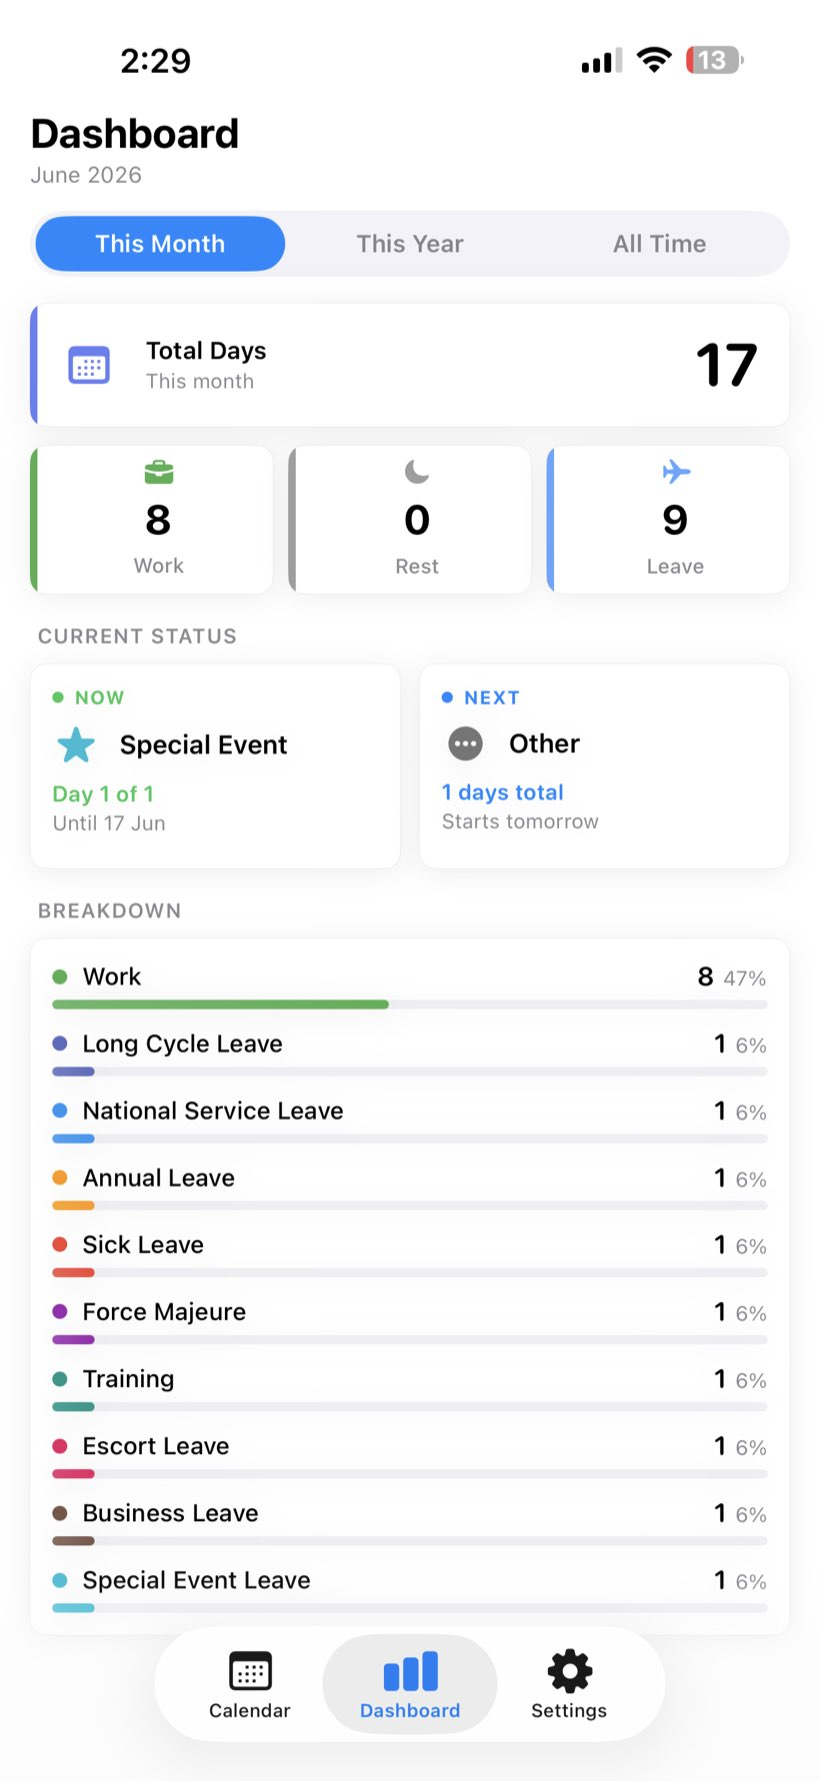
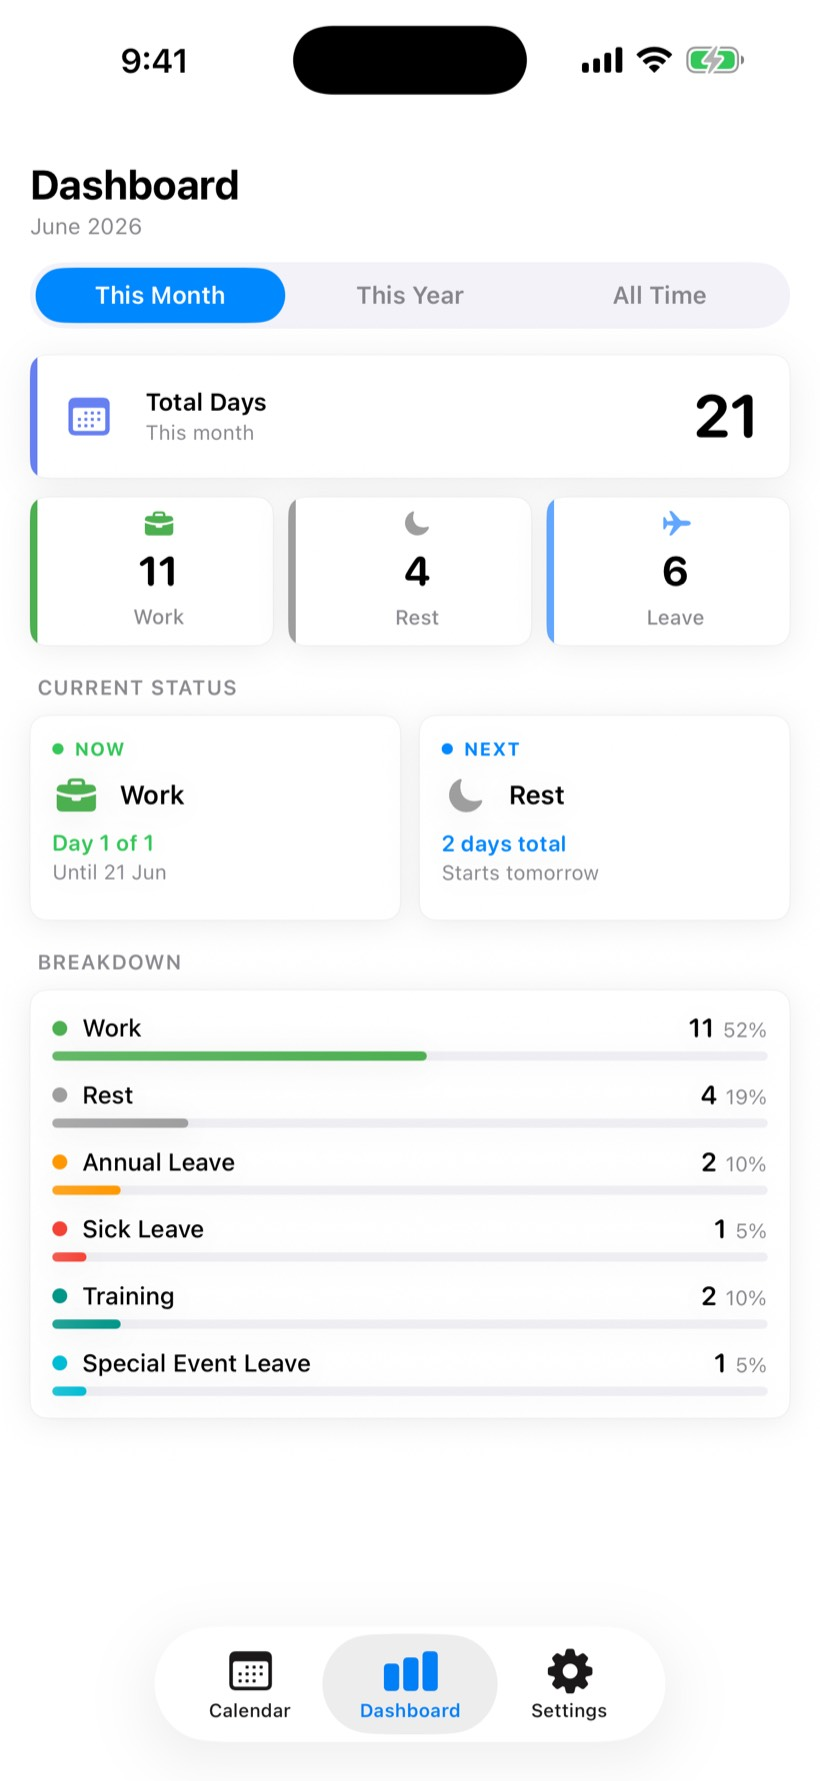
SShift: app-faithful re-skin + new simulator screenshots
Reproduce the SShift app's real design language on /sshift/ (page-local
inline style only). Calendar/week tiles use the true day-cell recipe —
per-type --c, linear-gradient(--c@18%→@user%) over the surface, solid ~4px
top strip, 1px ~18% border, radius 11, number+code. Week strip shows the
real type colours (Work green, today blue, Training teal, Annual amber,
Sick red, Long Cycle indigo, Rest grey). Legend = the app's edit-day type
chips (type@12% fill + type border + dot + code, bilingual). Lead accent
indigo #6680F2; edge-strip motif on feature cards; solid cards (no blur).
New clean simulator screenshots: hero theme-swaps calendar light/dark;
gallery = dashboard, day-detail, Arabic calendar, settings + a dark
dashboard. Removed unused v1 shots.

Fixes the grey-cells bug: .sh-week .tile/.sh-legend li (0,2,0) had hard-set
--c, beating the .sh-c-* type classes (0,1,0); now uses var(--c, fallback).

Other apps, assets/saud.css, version/What's-New/data-releases/loader/
app-data.js untouched. _v2src not committed.

diff --git a/sshift/index.html b/sshift/index.html
@@ -50,27 +50,25 @@
      surfaces via color-mix so they hold contrast in both light and dark.
      The grid/week mocks are decorative (aria-hidden); the legend carries
      the real bilingual labels. */
-  /* Accent drawn from the app's multi-colour leave-type palette: a confident
-     indigo-violet lead, lightened in dark mode. Page-local override only. */
-  body.app-sshift { --accent: #5B57E0; --accent-2: #3F39B8; }
-  :root[data-theme="dark"] body.app-sshift { --accent: #8B88F2; --accent-2: #6C66E8; }
-  @media (prefers-color-scheme: dark) { :root:not([data-theme="light"]) body.app-sshift { --accent: #8B88F2; --accent-2: #6C66E8; } }
+  /* SShift's lead accent = indigo #6680F2 (the app's brand indigo), lifted
+     slightly in dark for contrast. Page-local override only. */
+  body.app-sshift { --accent: #6680F2; --accent-2: #4860D8; }
+  :root[data-theme="dark"] body.app-sshift { --accent: #8AA0F7; --accent-2: #6680F2; }
+  @media (prefers-color-scheme: dark) { :root:not([data-theme="light"]) body.app-sshift { --accent: #8AA0F7; --accent-2: #6680F2; } }
 
-  /* Leave-type colours — EXACT hex from the app's DayType.colorHex (mode-
-     independent: identical in light & dark, matching the app 1:1). */
+  /* Leave-type colours — EXACT DayType.colorHex (one hex per type; the
+     gradient/opacity recipe below adapts them to light & dark, like the app). */
   .app-sshift {
-    --sh-work: #4CAF50;     /* Work */
-    --sh-rest: #9E9E9E;     /* Rest Day */
-    --sh-training: #009688; /* Training */
-    --sh-annual: #FF9800;   /* Annual Leave */
-    --sh-leave: #5C6BC0;    /* Long Cycle Leave (LCL) */
-    --sh-sick: #F44336;     /* Sick Leave */
+    --sh-work:#4CAF50; --sh-rest:#9E9E9E; --sh-lcl:#5C6BC0; --sh-nsl:#2196F3;
+    --sh-annual:#FF9800; --sh-sick:#F44336; --sh-force:#9C27B0; --sh-training:#009688;
+    --sh-escort:#E91E63; --sh-business:#795548; --sh-special:#00BCD4; --sh-other:#757575;
+    --sh-leave:#5C6BC0; /* alias: Long Cycle */
   }
-  .sh-cell-work     { background: color-mix(in oklab, var(--sh-work) 34%, var(--surface)); }
-  .sh-cell-rest     { background: color-mix(in oklab, var(--sh-rest) 24%, var(--surface)); }
-  .sh-cell-training { background: color-mix(in oklab, var(--sh-training) 34%, var(--surface)); }
-  .sh-cell-leave    { background: color-mix(in oklab, var(--sh-leave) 34%, var(--surface)); }
-  .sh-cell-annual   { background: color-mix(in oklab, var(--sh-annual) 36%, var(--surface)); }
+  /* Each coloured element sets --c to its type; the recipe reads --c. */
+  .sh-c-work{--c:var(--sh-work);} .sh-c-rest{--c:var(--sh-rest);} .sh-c-training{--c:var(--sh-training);}
+  .sh-c-annual{--c:var(--sh-annual);} .sh-c-lcl{--c:var(--sh-lcl);} .sh-c-sick{--c:var(--sh-sick);}
+  .sh-c-nsl{--c:var(--sh-nsl);} .sh-c-force{--c:var(--sh-force);} .sh-c-escort{--c:var(--sh-escort);}
+  .sh-c-business{--c:var(--sh-business);} .sh-c-special{--c:var(--sh-special);} .sh-c-other{--c:var(--sh-other);}
 
   /* Month-calendar mock (hero device screen) */
   .sh-cal { display: flex; flex-direction: column; gap: 9px; height: 100%; padding: 18px 15px; }
@@ -89,28 +87,66 @@
              background: var(--surface-2); border: 1px solid var(--hairline);
              border-radius: var(--r-pill); padding: 7px 12px; }
 
-  /* Week rhythm strip (section artifact) */
-  .sh-week { display: grid; grid-template-columns: repeat(7,1fr); gap: 7px; padding: 18px;
+  /* ── Week strip = a real calendar week, using the app's day-cell recipe ──
+     fill = BASE@18%→BASE@10% vertical gradient over the surface (so it adapts
+     to light & dark like the app); 1px BASE-tinted border; a solid BASE top
+     accent strip (~4px, full width); radius 11; day number weight 600 +
+     short code @55%; very soft shadow. */
+  .sh-week { display: grid; grid-template-columns: repeat(7,1fr); gap: 6px; padding: 16px;
              background: var(--surface); border: 1px solid var(--hairline);
-             border-radius: var(--r-lg); box-shadow: var(--shadow-sm); }
-  .sh-week .col { display: flex; flex-direction: column; align-items: center; gap: 8px; }
-  .sh-week .dow { font-size: 11px; font-weight: 700; color: var(--text-3); }
-  .sh-week .tile { width: 100%; aspect-ratio: 2/3; border-radius: 10px; background: var(--surface-2); }
-  /* tiles carry no text, so they take the FULL exact shift colour (1:1 with app) */
-  .sh-week .tile.sh-cell-work     { background: var(--sh-work); }
-  .sh-week .tile.sh-cell-rest     { background: var(--sh-rest); }
-  .sh-week .tile.sh-cell-training { background: var(--sh-training); }
-  .sh-week .tile.sh-cell-leave    { background: var(--sh-leave); }
-  .sh-week .tile.sh-cell-annual   { background: var(--sh-annual); }
-  .sh-week .tile.sh-cell-sick     { background: var(--sh-sick); }
+             border-radius: 16px; box-shadow: var(--shadow-sm); }
+  .sh-week .col { display: flex; flex-direction: column; align-items: stretch; gap: 7px; }
+  .sh-week .dow { text-align: center; font-size: 10.5px; font-weight: 700; color: var(--text-3); }
+  .sh-week .tile { position: relative; aspect-ratio: 1/1.18; overflow: hidden;
+                   border-radius: 11px; padding: 7px 7px 6px;
+                   display: flex; flex-direction: column; align-items: flex-start; gap: 3px;
+                   background: linear-gradient(180deg,
+                     color-mix(in srgb, var(--c, var(--sh-rest)) 18%, var(--surface)),
+                     color-mix(in srgb, var(--c, var(--sh-rest)) 10%, var(--surface)));
+                   border: 1px solid color-mix(in srgb, var(--c, var(--sh-rest)) 18%, transparent);
+                   box-shadow: 0 1px 2px rgba(0,0,0,0.04); }
+  .sh-week .tile::before { content: ""; position: absolute; inset: 0 0 auto 0; height: 4px; background: var(--c, var(--sh-rest)); }
+  .sh-week .tile .sh-num { font-size: 13.5px; font-weight: 600; line-height: 1; color: var(--text);
+                           font-variant-numeric: tabular-nums; margin-top: 3px; }
+  .sh-week .tile .sh-code { font-size: 9.5px; font-weight: 500; line-height: 1;
+                            color: color-mix(in srgb, var(--text) 55%, transparent); letter-spacing: .02em; }
+  /* Today = always the app's blue cell (overrides type colour), white text */
+  .sh-week .tile.today { background: linear-gradient(180deg, #ADD1FF, #61A6FF);
+                         border-color: color-mix(in srgb, #3373D9 45%, transparent);
+                         box-shadow: 0 1px 5px rgba(51,115,217,0.18); }
+  .sh-week .tile.today::before { background: #3373D9; }
+  .sh-week .tile.today .sh-num { color: #fff; }
+  .sh-week .tile.today .sh-code { color: rgba(255,255,255,0.82); }
 
-  /* Shift-type legend (real bilingual content) */
-  .sh-legend { list-style: none; margin: 20px 0 0; padding: 0; display: flex; flex-wrap: wrap; gap: 9px 16px; }
-  .sh-legend li { display: inline-flex; align-items: center; gap: 8px; font-size: 14px; color: var(--text-2); }
-  .sh-legend .sw { width: 13px; height: 13px; border-radius: 4px; flex: 0 0 auto; }
-  .sw-work{ background: var(--sh-work); } .sw-rest{ background: var(--sh-rest); }
-  .sw-training{ background: var(--sh-training); } .sw-leave{ background: var(--sh-leave); }
-  .sw-annual{ background: var(--sh-annual); } .sw-sick{ background: var(--sh-sick); }
+  /* ── Shift-type legend = the app's type chips (dot + code + name; each tinted
+     in its own colour: type@12% fill + type border, radius 9). ── */
+  .sh-legend { list-style: none; margin: 22px 0 0; padding: 0; display: flex; flex-wrap: wrap; gap: 9px; }
+  .sh-legend li { display: inline-flex; align-items: center; gap: 8px;
+                  font-size: 13px; font-weight: 560; color: var(--text);
+                  background: color-mix(in srgb, var(--c, var(--sh-rest)) 12%, var(--surface));
+                  border: 1px solid color-mix(in srgb, var(--c, var(--sh-rest)) 48%, var(--hairline));
+                  border-radius: 9px; padding: 6px 11px; }
+  .sh-legend li .dot { width: 7px; height: 7px; border-radius: 50%; background: var(--c, var(--sh-rest)); flex: 0 0 auto; }
+  .sh-legend li .code { font-size: 11px; font-weight: 700; letter-spacing: .02em;
+                        color: color-mix(in srgb, var(--c, var(--sh-rest)) 65%, var(--text)); }
+
+  /* ── Edge-strip motif — a ~4px rounded-leading vertical strip on the left of
+     each feature card, in its type/accent colour (like the app's Today/stat
+     cards). Cards stay SOLID (no blur) with a thin hairline + soft shadow. ── */
+  body.app-sshift .feature { position: relative; overflow: hidden; }
+  body.app-sshift .feature::before { content: ""; position: absolute; inset-block: 0;
+                                     inset-inline-start: 0; width: 4px; background: var(--c, var(--accent)); }
+  /* icon chip picks up the card's type colour (matches the edge strip) */
+  body.app-sshift .feature .f-ic { background: color-mix(in srgb, var(--c, var(--accent)) 16%, var(--surface));
+                                   color: var(--c, var(--accent)); }
+
+  /* Hero screenshot swaps with the page theme (light/dark calendar capture) */
+  body.app-sshift .sh-hero-shot { width: 100%; height: 100%; object-fit: cover; display: block; }
+  body.app-sshift .sh-hero-dark { display: none; }
+  :root[data-theme="dark"] body.app-sshift .sh-hero-light { display: none; }
+  :root[data-theme="dark"] body.app-sshift .sh-hero-dark { display: block; }
+  @media (prefers-color-scheme: dark) { :root:not([data-theme="light"]) body.app-sshift .sh-hero-light { display: none; }
+    :root:not([data-theme="light"]) body.app-sshift .sh-hero-dark { display: block; } }
 
   /* "A look inside" — real screenshots in device frames (mirrors Filed) */
   .sh-shots { display: flex; flex-wrap: wrap; justify-content: center; align-items: flex-start;
@@ -206,7 +242,8 @@
           <div class="device">
             <span class="island" aria-hidden="true"></span>
             <div class="screen">
-              <img src="/sshift/assets/screenshots/calendar.jpg" alt="The SShift month calendar for June — each day colored by shift type, with a card highlighting today's leave day" style="width:100%;height:100%;object-fit:cover;display:block">
+              <img class="sh-hero-shot sh-hero-light" src="/sshift/assets/screenshots/calendar-light.jpg" alt="The SShift month calendar — each day a coloured cell by shift type, with today shown in blue and a card summarising today's shift">
+              <img class="sh-hero-shot sh-hero-dark" src="/sshift/assets/screenshots/calendar-dark.jpg" alt="The SShift month calendar in dark mode — each day a coloured cell by shift type, with today shown in blue">
             </div>
           </div>
         </div>
@@ -232,23 +269,23 @@
             <span data-ar>كل نوع مناوبة — عمل، راحة، تدريب، إجازة — يُقرأ فوراً باللون، ويبقى متّسقاً في التقويم واللوحة وملف PDF القابل للطباعة.</span>
           </p>
           <ul class="sh-legend">
-            <li><span class="sw sw-work" aria-hidden="true"></span><span data-en>Work</span><span data-ar>عمل</span></li>
-            <li><span class="sw sw-rest" aria-hidden="true"></span><span data-en>Rest Day</span><span data-ar>يوم راحة</span></li>
-            <li><span class="sw sw-training" aria-hidden="true"></span><span data-en>Training</span><span data-ar>تدريب</span></li>
-            <li><span class="sw sw-annual" aria-hidden="true"></span><span data-en>Annual Leave</span><span data-ar>إجازة سنوية</span></li>
-            <li><span class="sw sw-sick" aria-hidden="true"></span><span data-en>Sick Leave</span><span data-ar>إجازة مرضية</span></li>
-            <li><span class="sw sw-leave" aria-hidden="true"></span><span data-en>Long Cycle Leave</span><span data-ar>إجازة دورة طويلة</span></li>
+            <li class="sh-c-work"><span class="dot" aria-hidden="true"></span><span class="code" aria-hidden="true">W</span><span data-en>Work</span><span data-ar>عمل</span></li>
+            <li class="sh-c-rest"><span class="dot" aria-hidden="true"></span><span class="code" aria-hidden="true">R</span><span data-en>Rest Day</span><span data-ar>يوم راحة</span></li>
+            <li class="sh-c-training"><span class="dot" aria-hidden="true"></span><span class="code" aria-hidden="true">TR</span><span data-en>Training</span><span data-ar>تدريب</span></li>
+            <li class="sh-c-annual"><span class="dot" aria-hidden="true"></span><span class="code" aria-hidden="true">AL</span><span data-en>Annual Leave</span><span data-ar>إجازة سنوية</span></li>
+            <li class="sh-c-sick"><span class="dot" aria-hidden="true"></span><span class="code" aria-hidden="true">SL</span><span data-en>Sick Leave</span><span data-ar>إجازة مرضية</span></li>
+            <li class="sh-c-lcl"><span class="dot" aria-hidden="true"></span><span class="code" aria-hidden="true">LCL</span><span data-en>Long Cycle Leave</span><span data-ar>إجازة دورة طويلة</span></li>
           </ul>
         </div>
         <div data-reveal>
           <div class="sh-week" aria-hidden="true">
-            <div class="col"><span class="dow">M</span><span class="tile sh-cell-work"></span></div>
-            <div class="col"><span class="dow">T</span><span class="tile sh-cell-work"></span></div>
-            <div class="col"><span class="dow">W</span><span class="tile sh-cell-training"></span></div>
-            <div class="col"><span class="dow">T</span><span class="tile sh-cell-annual"></span></div>
-            <div class="col"><span class="dow">F</span><span class="tile sh-cell-sick"></span></div>
-            <div class="col"><span class="dow">S</span><span class="tile sh-cell-leave"></span></div>
-            <div class="col"><span class="dow">S</span><span class="tile sh-cell-rest"></span></div>
+            <div class="col"><span class="dow">M</span><span class="tile sh-c-work"><span class="sh-num">15</span><span class="sh-code">W</span></span></div>
+            <div class="col"><span class="dow">T</span><span class="tile sh-c-work today"><span class="sh-num">16</span><span class="sh-code">W</span></span></div>
+            <div class="col"><span class="dow">W</span><span class="tile sh-c-training"><span class="sh-num">17</span><span class="sh-code">TR</span></span></div>
+            <div class="col"><span class="dow">T</span><span class="tile sh-c-annual"><span class="sh-num">18</span><span class="sh-code">AL</span></span></div>
+            <div class="col"><span class="dow">F</span><span class="tile sh-c-sick"><span class="sh-num">19</span><span class="sh-code">SL</span></span></div>
+            <div class="col"><span class="dow">S</span><span class="tile sh-c-lcl"><span class="sh-num">20</span><span class="sh-code">LCL</span></span></div>
+            <div class="col"><span class="dow">S</span><span class="tile sh-c-rest"><span class="sh-num">21</span><span class="sh-code">R</span></span></div>
           </div>
         </div>
       </div>
@@ -271,7 +308,7 @@
       <div class="feature-grid cols-3" style="margin-top:34px">
 
         <!-- Shift types -->
-        <div class="feature" data-reveal>
+        <div class="feature sh-c-work" data-reveal>
           <span class="f-ic" aria-hidden="true"><svg viewBox="0 0 24 24" fill="none" stroke="currentColor" stroke-width="2" stroke-linecap="round" stroke-linejoin="round"><circle cx="7" cy="7" r="3"/><circle cx="17" cy="7" r="3"/><circle cx="7" cy="17" r="3"/><circle cx="17" cy="17" r="3"/></svg></span>
           <h3>
             <span data-en>Work, Rest, Training, Leave</span>
@@ -284,7 +321,7 @@
         </div>
 
         <!-- Bilingual -->
-        <div class="feature" data-reveal>
+        <div class="feature sh-c-nsl" data-reveal>
           <span class="f-ic" aria-hidden="true"><svg viewBox="0 0 24 24" fill="none" stroke="currentColor" stroke-width="2" stroke-linecap="round" stroke-linejoin="round"><circle cx="12" cy="12" r="9"/><path d="M3 12h18"/><path d="M12 3a14 14 0 0 1 0 18"/><path d="M12 3a14 14 0 0 0 0 18"/></svg></span>
           <h3>
             <span data-en>Bilingual &amp; RTL</span>
@@ -297,7 +334,7 @@
         </div>
 
         <!-- Notifications -->
-        <div class="feature" data-reveal>
+        <div class="feature sh-c-annual" data-reveal>
           <span class="f-ic" aria-hidden="true"><svg viewBox="0 0 24 24" fill="none" stroke="currentColor" stroke-width="2" stroke-linecap="round" stroke-linejoin="round"><path d="M6 8a6 6 0 0 1 12 0c0 7 3 7 3 9H3c0-2 3-2 3-9z"/><path d="M10 21a2 2 0 0 0 4 0"/></svg></span>
           <h3>
             <span data-en>Smart notifications</span>
@@ -310,7 +347,7 @@
         </div>
 
         <!-- PDF -->
-        <div class="feature" data-reveal>
+        <div class="feature sh-c-training" data-reveal>
           <span class="f-ic" aria-hidden="true"><svg viewBox="0 0 24 24" fill="none" stroke="currentColor" stroke-width="2" stroke-linecap="round" stroke-linejoin="round"><path d="M14 3H7a2 2 0 0 0-2 2v14a2 2 0 0 0 2 2h10a2 2 0 0 0 2-2V8z"/><path d="M14 3v5h5"/><path d="M12 18v-6"/><path d="M9 15l3 3 3-3"/></svg></span>
           <h3>
             <span data-en>Printable PDF</span>
@@ -323,7 +360,7 @@
         </div>
 
         <!-- Privacy -->
-        <div class="feature" data-reveal>
+        <div class="feature sh-c-lcl" data-reveal>
           <span class="f-ic" aria-hidden="true"><svg viewBox="0 0 24 24" fill="none" stroke="currentColor" stroke-width="2" stroke-linecap="round" stroke-linejoin="round"><path d="M12 22s8-4 8-10V5l-8-3-8 3v7c0 6 8 10 8 10z"/></svg></span>
           <h3>
             <span data-en>Privacy first</span>
@@ -336,7 +373,7 @@
         </div>
 
         <!-- iOS Native -->
-        <div class="feature" data-reveal>
+        <div class="feature sh-c-special" data-reveal>
           <span class="f-ic" aria-hidden="true"><svg viewBox="0 0 24 24" fill="none" stroke="currentColor" stroke-width="2" stroke-linecap="round" stroke-linejoin="round"><rect x="6" y="2" width="12" height="20" rx="3"/><path d="M11 19h2"/></svg></span>
           <h3>
             <span data-en>Made for iOS</span>
@@ -365,7 +402,7 @@
           <div class="device">
             <span class="island" aria-hidden="true"></span>
             <div class="screen">
-              <img src="/sshift/assets/screenshots/dashboard.jpg" alt="The SShift dashboard summing up the month — total days, work, rest and leave counts, with a breakdown by shift type" style="width:100%;height:100%;object-fit:cover;display:block">
+              <img src="/sshift/assets/screenshots/dashboard.jpg" alt="The SShift dashboard summing up the month — total days, with work, rest and leave counts and a breakdown bar per shift type" style="width:100%;height:100%;object-fit:cover;display:block">
             </div>
           </div>
           <figcaption><span data-en>Your month, summed up.</span><span data-ar>شهرك، مُلخّصًا.</span></figcaption>
@@ -375,30 +412,40 @@
           <div class="device">
             <span class="island" aria-hidden="true"></span>
             <div class="screen">
-              <img src="/sshift/assets/screenshots/schedule-pattern.jpg" alt="SShift schedule generation — a custom work/off-day pattern that fills the calendar automatically" style="width:100%;height:100%;object-fit:cover;display:block">
+              <img src="/sshift/assets/screenshots/day-detail.jpg" alt="Editing a day in SShift — picking from a grid of colour-coded shift and leave types, with a note field" style="width:100%;height:100%;object-fit:cover;display:block">
             </div>
           </div>
-          <figcaption><span data-en>Generate from a pattern.</span><span data-ar>وَلِّد الجدول من نمط.</span></figcaption>
+          <figcaption><span data-en>Set any day in a tap.</span><span data-ar>عيّن أي يوم بنقرة.</span></figcaption>
         </figure>
 
         <figure class="sh-shot">
           <div class="device">
             <span class="island" aria-hidden="true"></span>
             <div class="screen">
-              <img src="/sshift/assets/screenshots/notifications.jpg" alt="SShift notification settings — reminders for work shifts, training and leave days at a chosen time" style="width:100%;height:100%;object-fit:cover;display:block">
+              <img src="/sshift/assets/screenshots/calendar-ar.jpg" alt="The SShift calendar in Arabic with full right-to-left layout — the same colour-coded month, localized" style="width:100%;height:100%;object-fit:cover;display:block">
             </div>
           </div>
-          <figcaption><span data-en>Reminders for what matters.</span><span data-ar>تذكيرات لما يهمّك.</span></figcaption>
+          <figcaption><span data-en>Full Arabic, right-to-left.</span><span data-ar>عربية كاملة، من اليمين لليسار.</span></figcaption>
         </figure>
 
         <figure class="sh-shot">
           <div class="device">
             <span class="island" aria-hidden="true"></span>
             <div class="screen">
-              <img src="/sshift/assets/screenshots/pdf-report.jpg" alt="An SShift schedule exported as a printable PDF with a shift summary and a color-coded month calendar" style="width:100%;height:100%;object-fit:cover;display:block">
+              <img src="/sshift/assets/screenshots/settings.jpg" alt="SShift settings — schedule and reminders, PDF export, backup and restore, language, and about" style="width:100%;height:100%;object-fit:cover;display:block">
             </div>
           </div>
-          <figcaption><span data-en>Export a printable PDF.</span><span data-ar>صدّر ملف PDF للطباعة.</span></figcaption>
+          <figcaption><span data-en>Reminders, export &amp; backup.</span><span data-ar>تذكيرات وتصدير ونسخ احتياطي.</span></figcaption>
+        </figure>
+
+        <figure class="sh-shot">
+          <div class="device">
+            <span class="island" aria-hidden="true"></span>
+            <div class="screen">
+              <img src="/sshift/assets/screenshots/dashboard-dark.jpg" alt="The SShift dashboard in dark mode — the same monthly summary and per-type breakdown, on a near-black canvas" style="width:100%;height:100%;object-fit:cover;display:block">
+            </div>
+          </div>
+          <figcaption><span data-en>Right at home in dark mode.</span><span data-ar>في بيئته تمامًا بالوضع الداكن.</span></figcaption>
         </figure>
       </div>
     </div>

diff --git a/Docs/SESSION_LOG.md b/Docs/SESSION_LOG.md
@@ -23,6 +23,42 @@ Public repo: keep entries free of secrets and private local machine paths.
 - ChatGPT review:  <what was sent out, if anything>
 -->
 
+## 2026-06-21 — SShift app-faithful re-skin + new simulator screenshots
+- Done: Applied the owner-approved SShift refresh (sshift/index.html inline <style>
+  + sshift/assets/screenshots/ only). Reproduced the app's REAL design language:
+  • Day-cell recipe (not flat): per-tile --c = the type's DayType.colorHex; fill =
+    linear-gradient(180deg, --c@18% → --c@10%) over the theme surface; solid ~4px
+    top strip in --c; 1px border --c@~18%; radius 11; soft shadow; day number wt 600
+    + short code @55%. Week strip = a real week (15–21): Work #4CAF50 · today(16)
+    blue (#ADD1FF→#61A6FF / #3373D9 strip / white) · Training #009688 · Annual
+    #FF9800 · Sick #F44336 · Long Cycle #5C6BC0 · Rest #9E9E9E (only Rest grey).
+  • Legend chips = the app's edit-day type-grid style: type@12% fill + ~48% type
+    border + type dot + code + bilingual name, each in its own colour.
+  • Lead accent indigo #6680F2 (dark lift #8AA0F7). Edge-strip motif on feature
+    cards (4px rounded-leading left strip in a type colour + matching icon chip);
+    cards stay solid (hairline + soft shadow, no blur).
+  • Screenshots (clean 6.9" simulator captures, ~820px JPG ~99–114KB, used as-is):
+    hero theme-swaps calendar-light/calendar-dark; gallery = dashboard, day-detail,
+    calendar-ar (RTL), settings, + dashboard-dark (a dark capture). Removed the v1
+    concepts (calendar, dashboard[old], notifications, pdf-report, schedule-pattern).
+- Decisions: grey→type was a specificity bug — `.sh-week .tile`/`.sh-legend li`
+  (0,2,0) hard-set --c:var(--sh-rest), beating the `.sh-c-*` classes (0,1,0);
+  fixed by removing the hard default and using var(--c, var(--sh-rest)) fallbacks so
+  the type class is the only thing setting --c. Border kept at ~18% (not literal
+  10%) so cell edges read on web. Gallery does NOT auto-swap EN↔AR on the language
+  toggle (Arabic calendar is simply included). Temp sshift/_v2src/ deleted, never
+  committed. saud.css and other apps untouched (accent lives in SShift inline style).
+- Open / next: none required. (Could later add per-language gallery swap if wanted.)
+- Deploy state: committed + pushed to main; live CSS/HTML + screenshots → Pages
+  rebuilds /sshift/. version / data-releases / What's-New / app-data.js /
+  releases-loader.js untouched; badges + hooks intact.
+- Live-check: PENDING owner — verify saud.im/sshift/ mobile + desktop, light AND
+  dark: week strip shows green/blue/teal/amber/red/indigo/grey (not all-grey);
+  legend chips each in their type colour; cells use gradient+strip+border; hero
+  calendar theme-swaps; gallery includes a dark capture; What's-New + badges present;
+  Dufaat/PhoneSpace/Filed unchanged.
+- ChatGPT review: none.
+
 ## 2026-06-21 — Dufaat v2 "Luminous Calm, warmed" re-skin + new logo
 - Done: Applied the owner-approved Dufaat v2 re-skin (within the existing inline
   <style> token system; assets/saud.css and all other apps untouched).